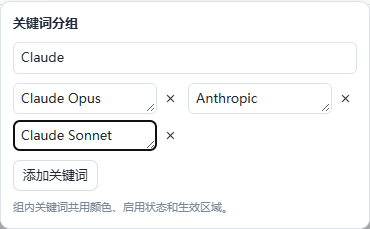
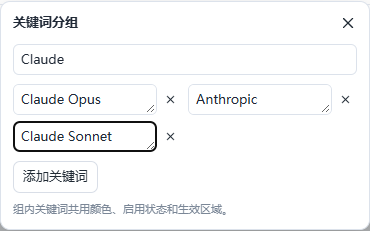
feat: add neon presets and fix popover dismissal

diff --git a/linuxdo-keyword-highlighter.user.js b/linuxdo-keyword-highlighter.user.js
@@ -1,7 +1,7 @@
 // ==UserScript==
 // @name         Linux.do 荧光关键词高亮
 // @namespace    linuxdo-keyword-highlighter
-// @version      1.1.0
+// @version      1.2.0
 // @description  关键词分组、分区高亮、圆角荧光背景与阴影、短词覆盖长词、可拖动或贴边的设置入口。
 // @match        https://linux.do/*
 // @run-at       document-idle
@@ -23,7 +23,13 @@
     { scope: 'body', label: '正文与回复', selector: '.topic-body .cooked' },
   ];
   const REGION_SELECTOR = REGIONS.map(region => region.selector).join(',');
-  const PALETTE = ['#18f0ff', '#edff00', '#ff5cc9', '#83ff38', '#ff913b'];
+  const PALETTE = [
+    { label: '荧光青', color: '#18f0ff' },
+    { label: '荧光黄', color: '#edff00' },
+    { label: '荧光粉', color: '#ff5cc9' },
+    { label: '荧光绿', color: '#83ff38' },
+    { label: '荧光橙', color: '#ff913b' },
+  ];
   const INITIAL_SETTINGS = {
     version: 2,
     rules: [],
@@ -257,9 +263,8 @@
       .group-edit { flex: 1; display: flex; align-items: center; gap: 8px; min-width: 0; text-align: left; border: 0; padding: 2px 3px; background: transparent; }
       .group-label { font-weight: 500; overflow: hidden; text-overflow: ellipsis; white-space: nowrap; }
       .group-count { flex: 0 0 auto; font-size: 11px; color: light-dark(#7b8797, #aebbd0); }
-      .color { flex: 0 0 auto; width: 25px; height: 25px; padding: 0; background: transparent; border: 0; border-radius: 6px; overflow: hidden; }
-      .color::-webkit-color-swatch-wrapper { padding: 0; }
-      .color::-webkit-color-swatch { border: 1px solid rgb(0 0 0 / 9%); border-radius: 6px; }
+      .color { flex: 0 0 auto; width: 25px; height: 25px; padding: 0; background: var(--swatch); border: 1px solid rgb(0 0 0 / 9%); border-radius: 6px; }
+      .color:hover { background: var(--swatch); outline: 2px solid light-dark(#dce2eb, #566277); outline-offset: 2px; }
       .options { display: flex; align-items: center; gap: 4px; padding: 4px 6px; font-size: 11px; border: 0; color: light-dark(#687587, #b5c0d0); background: transparent; }
       .options svg { width: 15px; height: 15px; }
       .remove { color: light-dark(#8c96a4, #aebbd0); }
@@ -267,7 +272,17 @@
       .popover { inset: auto; margin: 0; padding: 12px; border: 1px solid light-dark(#dce2eb, #465263); border-radius: 10px; color: light-dark(#202936, #e6edf6); background: light-dark(#fff, #252c36); box-shadow: 0 8px 28px rgb(0 0 0 / 18%); max-height: calc(100dvh - 32px); overflow: auto; }
       .keyword-panel { width: min(370px, calc(100vw - 32px)); }
       .options-panel { width: 174px; }
-      .panel-heading { font-weight: 600; margin: 0 0 9px; }
+      .color-panel { width: 236px; }
+      .panel-header { display: flex; align-items: center; justify-content: space-between; gap: 12px; margin: -4px -4px 8px 0; }
+      .panel-heading { font-weight: 600; margin: 0; }
+      .panel-header .icon-button { width: 26px; height: 26px; }
+      .palette { display: grid; grid-template-columns: repeat(5, minmax(0, 1fr)); gap: 7px; padding: 3px 0 12px; }
+      .swatch { display: grid; place-items: center; height: 31px; padding: 0; border: 1px solid rgb(0 0 0 / 10%); background: var(--swatch); font-size: 19px; font-weight: 600; }
+      .swatch:hover { background: var(--swatch); outline: 1px solid light-dark(#9ca9bb, #b9c9e0); outline-offset: 2px; }
+      .swatch[aria-pressed="true"] { outline: 2px solid light-dark(#46556b, #d9e2f0); outline-offset: 2px; }
+      .custom-row { display: flex; align-items: center; gap: 8px; padding-top: 9px; border-top: 1px solid light-dark(#e6eaf0, #414b5b); }
+      .custom-color { width: 29px; height: 27px; padding: 2px; border: 1px solid light-dark(#dce2eb, #566277); border-radius: 6px; background: transparent; }
+      .color-value { margin-left: auto; font: 11px/1.5 Consolas, monospace; color: light-dark(#778394, #aebbd0); }
       .name { display: block; width: 100%; margin-bottom: 9px; }
       .keyword-list { display: grid; grid-template-columns: repeat(2, minmax(0, 1fr)); gap: 6px; margin-bottom: 9px; }
       .keyword-item { display: flex; align-items: center; gap: 2px; min-width: 0; }
@@ -508,13 +523,27 @@
     };
   }
 
-  function attachPopover(button, panel) {
+  function createPopover(className, title) {
+    const panel = createElement('div', `popover ${className}`);
     panel.setAttribute('popover', 'auto');
+    panel.setAttribute('role', 'dialog');
+    panel.setAttribute('aria-label', title);
+    const header = createElement('div', 'panel-header');
+    const close = iconButton('close', `关闭${title}`);
+    close.popoverTargetElement = panel;
+    close.popoverTargetAction = 'hide';
+    header.append(createElement('div', 'panel-heading', title), close);
+    panel.append(header);
+    return panel;
+  }
+
+  function attachPopover(button, panel) {
+    // Native invoker association prevents light-dismiss followed by a manual reopen.
+    button.popoverTargetElement = panel;
+    button.popoverTargetAction = 'toggle';
     button.setAttribute('aria-haspopup', 'dialog');
     button.setAttribute('aria-expanded', 'false');
-    panel.addEventListener('toggle', event => button.setAttribute('aria-expanded', String(event.newState === 'open')));
-    function open() {
-      panel.showPopover();
+    function position() {
       const anchor = button.getBoundingClientRect();
       const bounds = panel.getBoundingClientRect();
       const gutter = 16;
@@ -523,11 +552,14 @@
       const top = below + bounds.height <= window.innerHeight - gutter ? below : anchor.top - bounds.height - 6;
       panel.style.top = `${Math.max(gutter, top)}px`;
     }
-    button.addEventListener('click', () => {
-      if (panel.matches(':popover-open')) panel.hidePopover();
-      else open();
+    panel.addEventListener('toggle', event => {
+      button.setAttribute('aria-expanded', String(event.newState === 'open'));
+      if (event.newState === 'open') position();
     });
-    return open;
+    return () => {
+      if (!panel.matches(':popover-open')) button.click();
+      position();
+    };
   }
 
   function createRuleCard(rule, onChange, onRemove) {
@@ -540,17 +572,14 @@
     const label = createElement('span', 'group-label');
     const count = createElement('span', 'group-count');
     edit.append(label, count);
-    const color = createElement('input', 'color');
-    color.type = 'color';
-    color.value = rule.color;
-    color.setAttribute('aria-label', '分组背景色');
+    const color = createElement('button', 'color');
+    color.type = 'button';
+    color.setAttribute('aria-label', '选择分组颜色');
     const remove = iconButton('trash', '删除分组', 'icon-button remove');
     const options = iconButton('settings', '分组设置', 'options');
     const summary = createElement('span');
     options.append(summary);
-    const optionPanel = createElement('div', 'popover options-panel');
-    optionPanel.setAttribute('aria-label', '分组设置');
-    optionPanel.setAttribute('role', 'dialog');
+    const optionPanel = createPopover('options-panel', '分组设置');
     const scopes = createElement('div', 'rule-scopes');
     const checks = new Map();
     function check(labelText, checked) {
@@ -567,9 +596,7 @@
     optionPanel.append(scopes);
     attachPopover(options, optionPanel);
 
-    const keywordPanel = createElement('div', 'popover keyword-panel');
-    keywordPanel.setAttribute('role', 'dialog');
-    keywordPanel.setAttribute('aria-label', '编辑关键词分组');
+    const keywordPanel = createPopover('keyword-panel', '关键词分组');
     const name = createElement('input', 'name');
     name.type = 'text';
     name.value = rule.name;
@@ -578,9 +605,34 @@
     const words = createElement('div', 'keyword-list');
     const addWord = createElement('button', '', '添加关键词');
     addWord.type = 'button';
-    keywordPanel.append(createElement('div', 'panel-heading', '关键词分组'), name, words, addWord,
+    keywordPanel.append(name, words, addWord,
       createElement('p', 'panel-hint', '组内关键词共用颜色、启用状态和生效区域。'));
     const showEditor = attachPopover(edit, keywordPanel);
+
+    const colorPanel = createPopover('color-panel', '颜色选择');
+    const palette = createElement('div', 'palette');
+    const swatches = PALETTE.map(preset => {
+      const swatch = createElement('button', 'swatch');
+      swatch.type = 'button';
+      swatch.setAttribute('aria-label', preset.label);
+      swatch.title = `${preset.label} ${preset.color}`;
+      swatch.style.setProperty('--swatch', preset.color);
+      swatch.style.color = contrastText(preset.color);
+      swatch.addEventListener('click', () => {
+        change({ color: preset.color });
+        colorPanel.hidePopover();
+      });
+      palette.append(swatch);
+      return swatch;
+    });
+    const customRow = createElement('label', 'custom-row', '自定义');
+    const customColor = createElement('input', 'custom-color');
+    customColor.type = 'color';
+    customColor.setAttribute('aria-label', '自定义颜色');
+    const colorValue = createElement('span', 'color-value');
+    customRow.append(customColor, colorValue);
+    colorPanel.append(palette, customRow);
+    attachPopover(color, colorPanel);
 
     function refreshSummary() {
       const filled = current.keywords.filter(word => word.length);
@@ -591,6 +643,15 @@
       summary.textContent = !current.enabled ? '已暂停' : !selected.length ? '未选区域' : selected.length === REGIONS.length ? '全部区域' : `${selected.length} 个区域`;
       options.title = current.enabled ? selected.map(region => region.label).join('、') || '未选择区域' : '已暂停';
       card.dataset.paused = String(!current.enabled);
+      color.style.setProperty('--swatch', current.color);
+      color.title = `分组颜色 ${current.color}`;
+      customColor.value = current.color;
+      colorValue.textContent = current.color;
+      swatches.forEach((swatch, index) => {
+        const selected = PALETTE[index].color === current.color.toLowerCase();
+        swatch.setAttribute('aria-pressed', String(selected));
+        swatch.textContent = selected ? '✓' : '';
+      });
     }
     function change(patch) {
       onChange(patch);
@@ -623,14 +684,14 @@
       words.lastElementChild.querySelector('.text').focus();
     });
     name.addEventListener('input', () => change({ name: name.value }));
-    color.addEventListener('input', () => change({ color: color.value }));
+    customColor.addEventListener('input', () => change({ color: customColor.value }));
     function changeOptions() {
       change({ enabled: enabled.checked, scopes: [...checks].filter(([, input]) => input.checked).map(([scope]) => scope) });
     }
     enabled.addEventListener('change', changeOptions);
     for (const input of checks.values()) input.addEventListener('change', changeOptions);
     remove.addEventListener('click', onRemove);
-    card.append(color, edit, options, remove, keywordPanel, optionPanel);
+    card.append(color, edit, options, remove, keywordPanel, optionPanel, colorPanel);
     refreshSummary();
     renderKeywords();
     return { card, openEditor() { showEditor(); words.querySelector('.text')?.focus(); } };
@@ -727,7 +788,7 @@
         }
       }
       view.add.addEventListener('click', () => {
-        const rule = { id: crypto.randomUUID(), name: '', keywords: [''], color: PALETTE[settings.rules.length % PALETTE.length], scopes: [...SCOPES], enabled: true };
+        const rule = { id: crypto.randomUUID(), name: '', keywords: [''], color: PALETTE[settings.rules.length % PALETTE.length].color, scopes: [...SCOPES], enabled: true };
         save({ ...settings, rules: [...settings.rules, rule] });
         renderRules();
         renderedRules.get(rule.id).openEditor();

diff --git a/README.md b/README.md
@@ -9,7 +9,7 @@
 ## 能做什么
 
 - 相关关键词放一组，共用颜色、启用状态和生效区域。单个词也可以单独成组。
-- 默认是荧光色，高亮块有圆角和一点阴影，随文字一起滚动。
+- 颜色可以直接选荧光青、黄、粉、绿、橙五种预设，也可以自定义。高亮块有圆角和一点阴影，随文字一起滚动。
 - 列表标题、帖子页标题、正文与回复分别勾选。比如一个词只看标题，另一个词只看正文。
 - 关键词重叠时，短词覆盖长词。
 - 行内代码、代码块和链接文字也能高亮。复制时还是原文。
@@ -44,7 +44,11 @@
 
 ![关键词设置面板](docs/screenshots/settings.png)
 
-列表里点组名可以编辑关键词，点颜色块可以换色。右边的范围按钮收起了「启用」和三个区域选项，展开后再勾选。比如建一个 `Claude` 组，放入 `Claude Opus`、`Anthropic`、`Claude Sonnet`，以后改一次颜色或范围，组内所有词一起生效。
+列表里点组名可以编辑关键词，点颜色块可以选择荧光预设或自定义颜色。右边的范围按钮收起了「启用」和三个区域选项，展开后再勾选。比如建一个 `Claude` 组，放入 `Claude Opus`、`Anthropic`、`Claude Sonnet`，以后改一次颜色或范围，组内所有词一起生效。
+
+![荧光预设和自定义颜色](docs/screenshots/color-picker.png)
+
+每个弹出窗口右上角都有叉号。再次点击原按钮、点击窗口内的空白处，或按 `Esc` 都能收起；点击其他分组、范围或颜色按钮，会关闭当前弹窗并打开对应面板。选择预设颜色后会立即保存并收起颜色面板。
 
 ![一组内编辑多个关键词](docs/screenshots/group-editor.png)
 
@@ -99,7 +103,7 @@ npm run test:live
 
 它只读取公开页面，不登录或发帖。结果和截图保存在 `test-results/`，失败时也会留下页面状态。
 
-当前 15 项单元测试、语法检查和 Chrome / Edge 交互测试已通过，包含分组设置、旧配置迁移和滚动中的绘制检查。真实 Linux.do 页面的区域结构已核对；线上自动化高亮检查仍被 Cloudflare 403 验证页拦住。1.1 的真实 Tampermonkey 更新安装与存储尚未完成验证。
+当前 15 项单元测试、语法检查和 Chrome / Edge 交互测试已通过，包含荧光预设、自定义颜色、弹窗开关、分组设置、旧配置迁移和滚动中的绘制检查。真实 Linux.do 页面的区域结构已核对；线上自动化高亮检查仍被 Cloudflare 403 验证页拦住。1.2 的真实 Tampermonkey 更新安装与存储尚未完成验证。
 
 高亮用内联 `<mark>` 绘制，圆角、底色和阴影属于同一个文字片段，不需要滚动时重新计算悬浮层坐标。匹配会跨越行内标签，保留链接和代码元素；撤销高亮时恢复原文字节点，网站更新绑定文字时也会重新匹配。设置菜单使用浏览器原生 Popover，需要较新的 Chrome / Edge。
 
